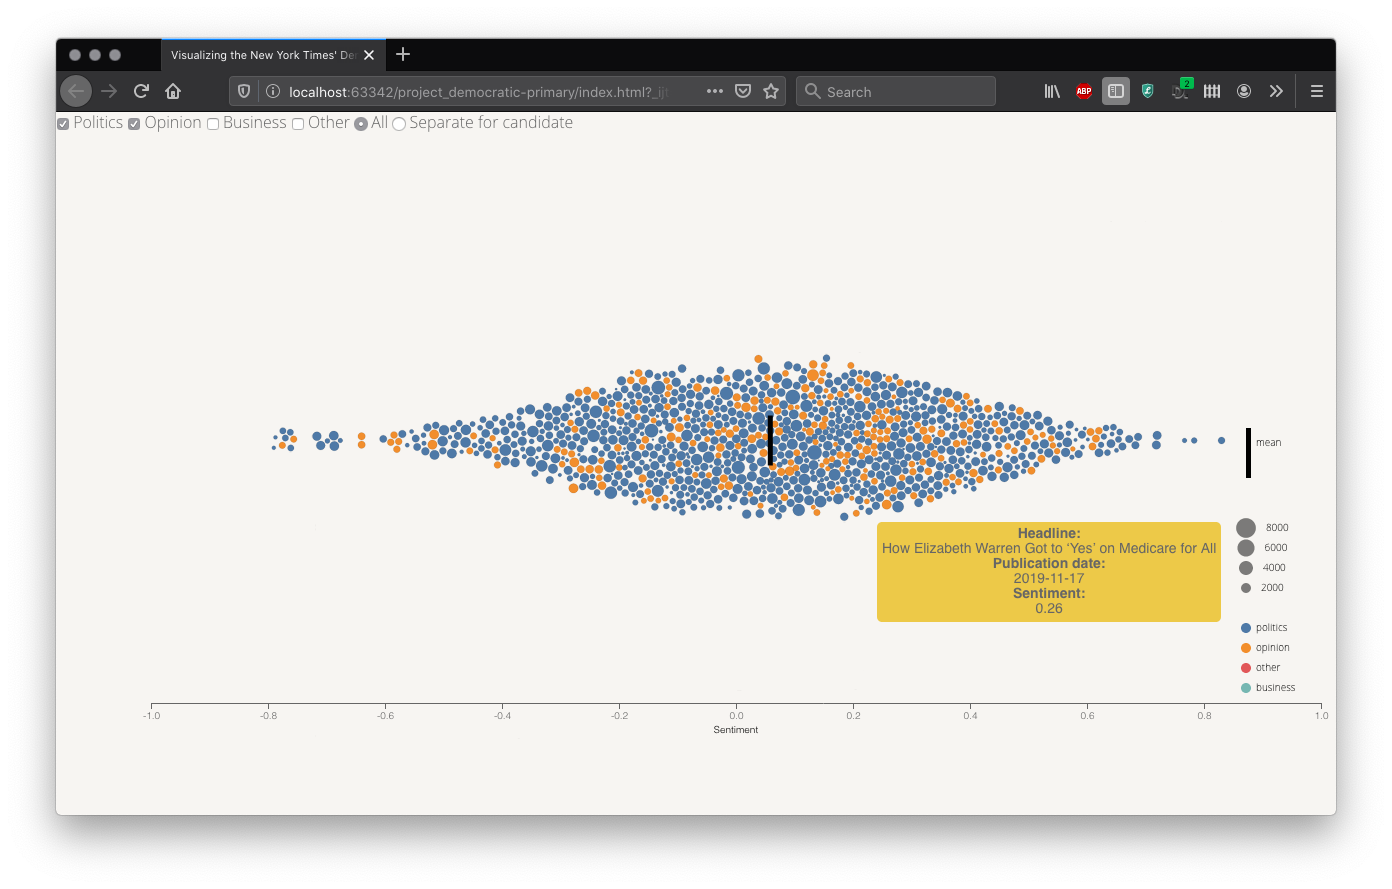
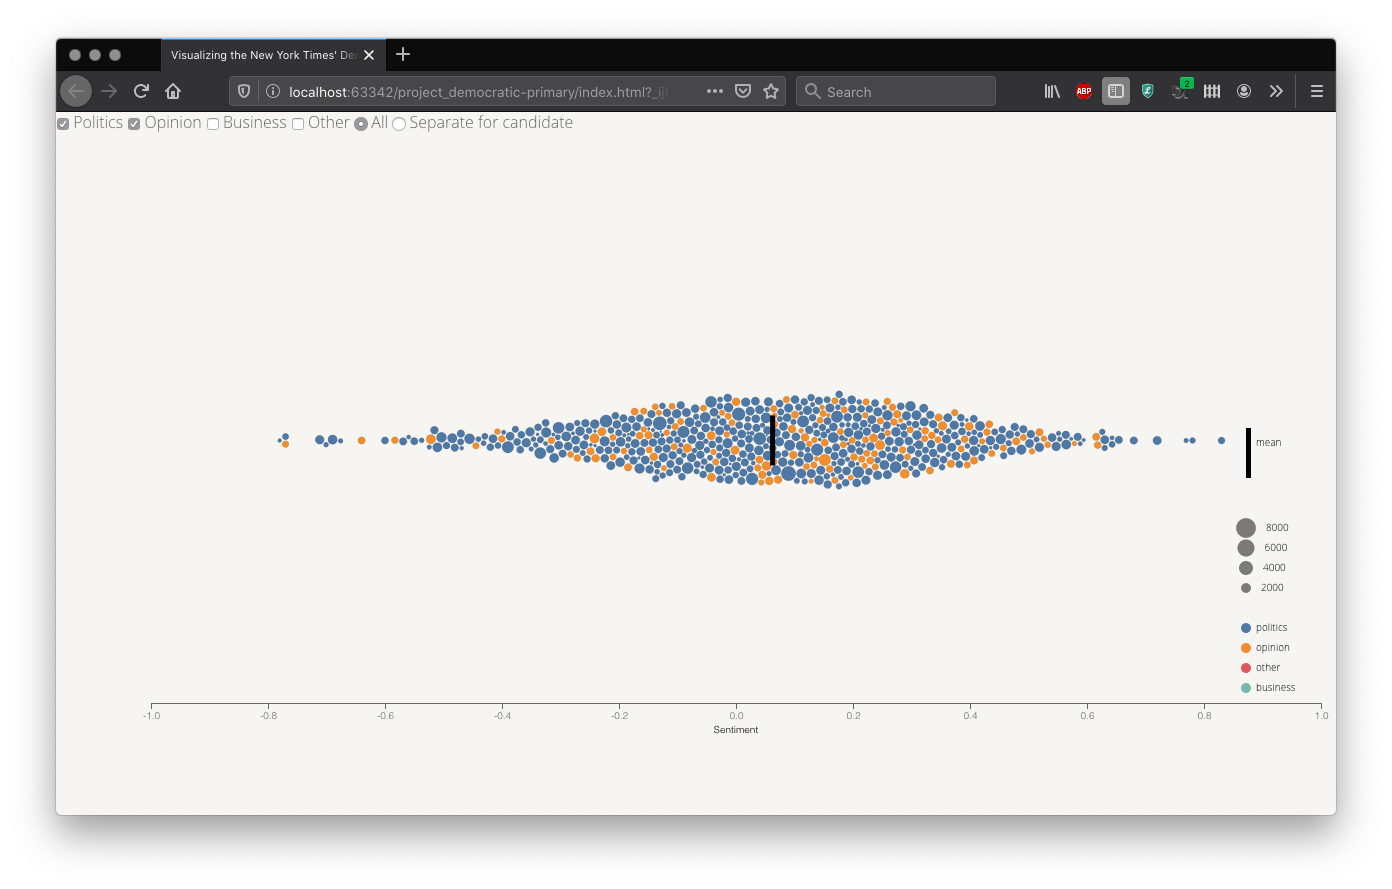
Updated README.md

Changed region(s): [[0.1853, 0.3948, 0.8958, 0.6985]]

diff --git a/README.md b/README.md
@@ -186,7 +186,7 @@ The data View #1 and View #2 are based on were scraped from the NYT, using the a
             }
 ```
 
-- The values from the following fields — `main headline`, `abstract`, `lead_paragraph`, `news_desk`, `pub_date`, `snippet`, `word_count` — were extracted from each article. However, only the articles whose main headline mentioned one of the five candidates (i.e., Joe Biden, Michael Bloomberg, Pete Buttigieg, Bernie Sanders, and Elizabeth Warren) were included in the final dataset. Note also that in the current project we focus only on the articles of which the headline only contained one and only one candidate. That is, articles whose headline contained the names of two or more candidates were excluded from the dataset. We did this to simplify our analysis, as we do not have a good way to associate a single sentiment score of an article with multiple candidates. We also excluded articles that had a `word_count` of 0. In total, this procedure resulted in 1287 entries in the final dataset.
+- The values from the following fields — `main headline`, `abstract`, `lead_paragraph`, `news_desk`, `pub_date`, `snippet`, `word_count` — were extracted from each article. However, only the articles whose main headline mentioned one of the five candidates (i.e., Joe Biden, Michael Bloomberg, Pete Buttigieg, Bernie Sanders, and Elizabeth Warren) were included in the final dataset. Note also that in the current project we focus only on the articles of which the headline only contained one and only one candidate. That is, articles whose headline contained the names of two or more candidates were excluded from the dataset. We did this to simplify our analysis, as we do not have a good way to associate a single sentiment score of an article with multiple candidates. We also excluded articles that had a `word_count` of 0. In total, this procedure resulted in 739 entries in the final dataset.
 - We then calculated the sentiment score for each article using the polarity sentiment analyzer from the Python library `vaderSentiment`. For each article, we calculated four [compound polarity scores](https://medium.com/analytics-vidhya/simplifying-social-media-sentiment-analysis-using-vader-in-python-f9e6ec6fc52f), on the basis of `main headline`, `abstract`, `lead_paragraph`, and the average of them respectively. That is, each article has four sentiment scores: `score_headline`, `score_abstract`, `score_paragraph`, and `average` (from the three scores).
 - For each article, we also classified it into one of the four categories — `business`, `politics`, `opinion`, and `other`, based on the `news_desk` field of the article. The category `business` has articles from the news desks of business, business day, and sunday business; `politics` has those from politics, national, U.S., and Washington; `opinion` contains those from editorial, opinion, oped, and upshot; finally, `other` consists of the articles that do not fall into one of the aforementioned categories.
 - The final dataset is stored in the CSV format, the first few lines of which are shown below:
